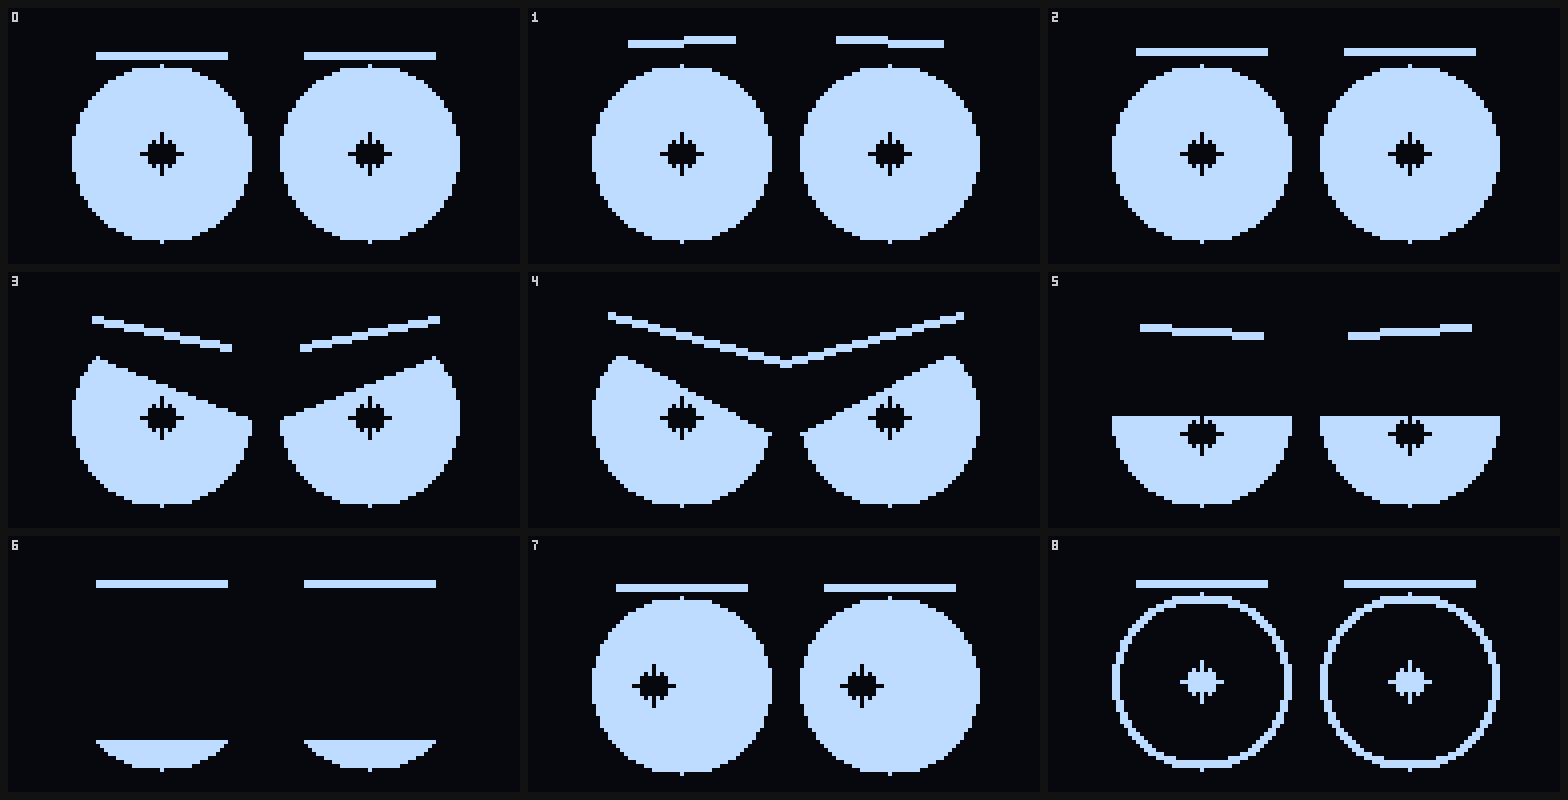
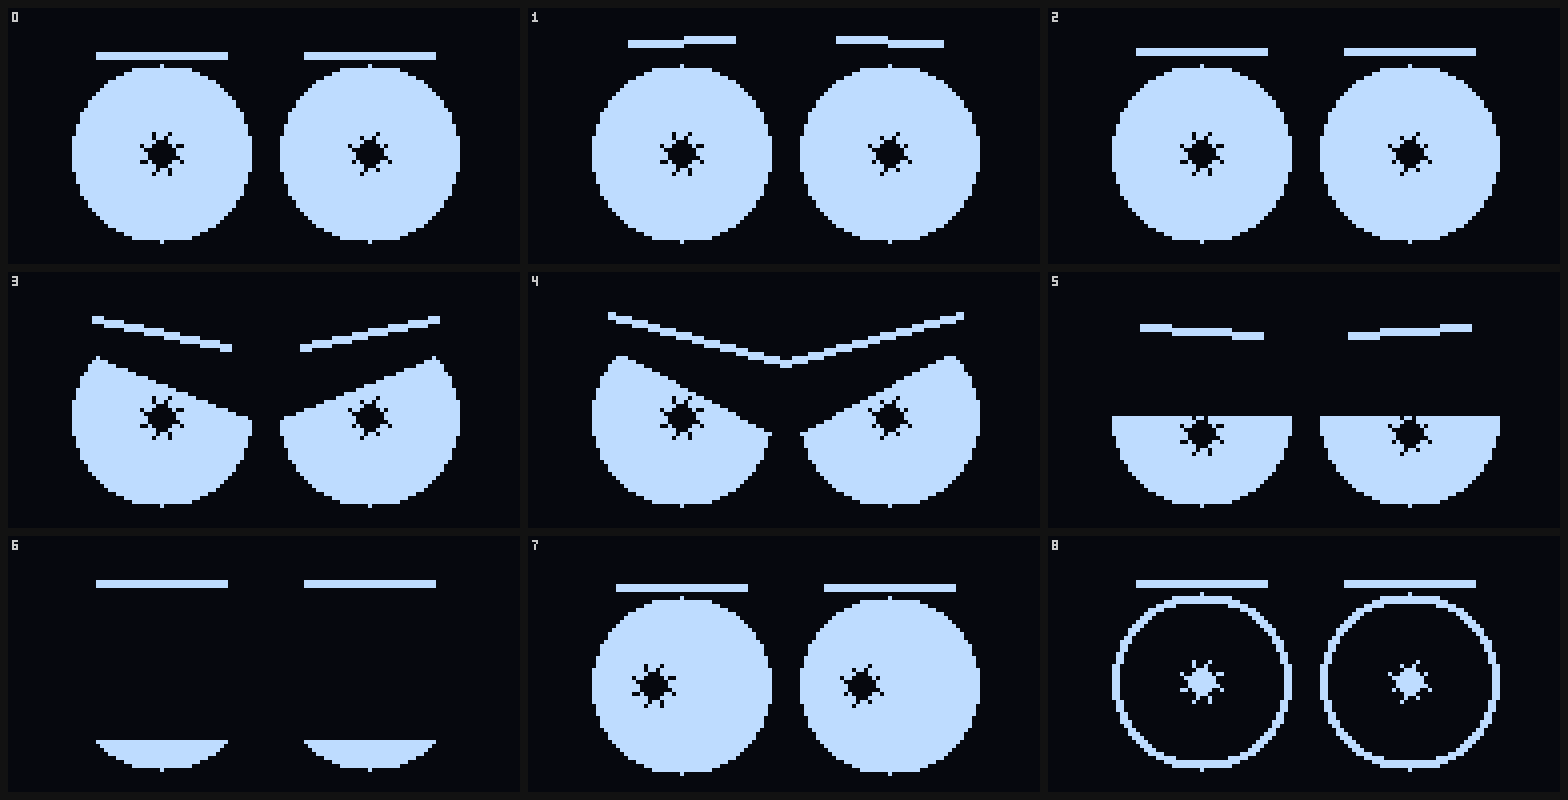
eyes: rotate the blob pupil's spikes off the axes
Eight spokes spaced 45 degrees apart, rotated 21 degrees on the left eye and
-27 on the right. Axis-aligned spokes read as a printed cross, and a matched
pair reads as stamped. Spokes start one pixel inside the disc so every one of
them stays attached.

diff --git a/src/eyes.c b/src/eyes.c
@@ -277,8 +277,11 @@ static void draw_scribble(int cx, int cy, int eye, int pct, bool on)
 static void draw_dot(int cx, int cy, int r, bool on);
 
 // A fat disc with short spikes: the pupil reads as a blob of ink with a few
-// bristles, not as a star. Cardinals get a longer tail than diagonals, and the
-// two eyes are offset by one step so they never look stamped from a symbol.
+// bristles, not as a star. The eight spokes are rotated off the axes, and by a
+// different angle per eye: a cross at 0/45 degrees looks printed, and a pair
+// of identical crosses looks stamped.
+static const float k_blob_rot[2] = { 21.0f, -27.0f };
+
 static void draw_blob(int cx, int cy, int eye, int pct, bool on)
 {
     int core = (BLOB_CORE_R * pct) / 100;
@@ -286,24 +289,20 @@ static void draw_blob(int cx, int cy, int eye, int pct, bool on)
 
     draw_dot(cx, cy, core, on);
 
-    static const int8_t dx[8] = { 0, 1, 1, 1, 0, -1, -1, -1 };
-    static const int8_t dy[8] = { -1, -1, 0, 1, 1, 1, 0, -1 };
+    if (pct < 70) return;          // the eyelid takes the spikes first
 
     for (int i = 0; i < 8; i++) {
-        int k = (i + eye) & 7;
-        bool cardinal = (dx[k] == 0 || dy[k] == 0);
+        float a = (k_blob_rot[eye] + 45.0f * (float)i) * (PI_F / 180.0f);
+        float ca = cosf(a);
+        float sa = sinf(a);
 
-        if (pct < 70) continue;        // the eyelid takes the tails first
-
-        if (cardinal) {
-            for (int r = core + 1; r <= core + 2; r++)
-                sh1106_set_pixel(cx + dx[k] * r, cy + dy[k] * r, on);
-        } else {
-            // A one-pixel stub on the diagonal only meets the disc at a corner,
-            // and a corner touch reads as a separate dot at this scale. Fill the
-            // notch instead: two pixels sharing an edge with the disc.
-            sh1106_set_pixel(cx + dx[k] * core, cy + dy[k] * (core - 1), on);
-            sh1106_set_pixel(cx + dx[k] * (core - 1), cy + dy[k] * core, on);
+        // Start one pixel inside the disc radius so every spoke is attached to
+        // the blob; the outer end is two pixels past it, the same reach the
+        // axial version had.
+        for (int r = core - 1; r <= core + 2; r++) {
+            int x = (int)lrintf(ca * (float)r);
+            int y = (int)lrintf(sa * (float)r);
+            sh1106_set_pixel(cx + x, cy + y, on);
         }
     }
 }
